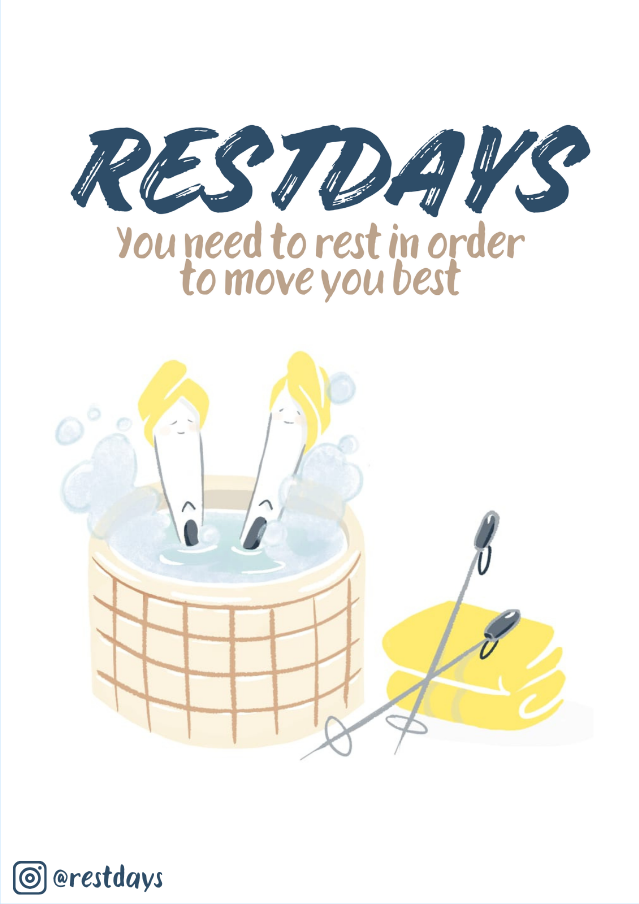
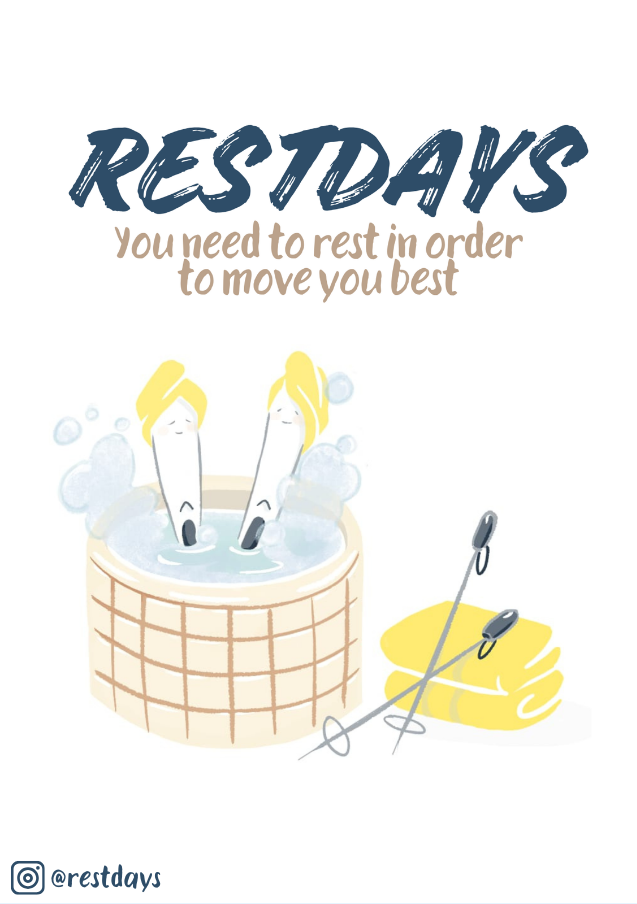
project information
editorial project, adjust project overview and about me page for mobile screen

diff --git a/src/app/art/page.tsx b/src/app/art/page.tsx
@@ -89,25 +89,31 @@ const editorials = [
     {
         src: "/novel mailing.png",
         alt: "editorial",
-        title: "Poster AD Design",
+        title: "Poster AD design",
+        medium: "Adobe Photoshop",
+    },
+    {
+        src: "/Paper namecard.png",
+        alt: "editorial",
+        title: "Namecard design Korean novelist",
         medium: "Adobe Photoshop",
     },
     {
         src: "/restdays1.png",
         alt: "editorial",
-        title: "Visual Activism Poster Design",
+        title: "Visual activism poster design",
         medium: "Figma, Clip Studio Paint",
     },
     {
         src: "/restdays2.png",
         alt: "editorial",
-        title: "Visual Activism Poster Design",
+        title: "Visual activism poster design",
         medium: "Figma, Clip Studio Paint",
     },
     {
         src: "/restdays3.png",
         alt: "editorial",
-        title: "Visual Activism Poster Design",
+        title: "Visual activism poster design",
         medium: "Figma, Clip Studio Paint",
     },
 ];
@@ -115,37 +121,10 @@ export default function ArtPage(){
     return (
         <main>
             {/* Titel section*/}
-            <section className="py-40 z-0">
-
-                <FadeIn amount={0.8} duration={1.0}>
-                    <div className="absolute bottom-70 left-5 md:bottom-30 md:right-50 rotate-180 -z-5">
-                        <SlideUp y={100} delay={0.4} duration={1.0}>
-                        <Image
-                            src="/Frame 1.png"
-                            alt="Flower"
-                            width={110}
-                            height={110}
-                            className="h-12 md:h-28 w-fit pointer-events-none"
-                        />
-                        </SlideUp>
-                    </div>
-
-                    <div className="absolute top-50 right-10 md:top-40 md:left-70 rotate-0 -z-5">
-                        <SlideUp y={100} delay={0.2} duration={1.0}>
-                        <Image
-                            src="/Frame 1.png"
-                            alt="Flower"
-                            width={100}
-                            height={100}
-                            className="h-10 md:h-26 w-fit pointer-events-none"
-                        />
-                        </SlideUp>
-                    </div>
-
-                </FadeIn>
+            <section className="pt-20 z-0">
 
                 <FadeIn>
-                    <h1 className={`${cormorant.className} z-5 text-secondarydark text-center text-6xl md:text-[10vw] mt-5 md:mt-10 leading-none tracking-wide`}>
+                    <h1 className={`${cormorant.className} z-5 text-secondarydark text-center text-6xl md:text-[10vw] leading-none tracking-wide`}>
                         Illustrations
                     </h1>
                 </FadeIn>
@@ -153,7 +132,7 @@ export default function ArtPage(){
 
 
             {/* My illustrations section*/}
-            <section className="py-20 max-w-7xl px-6 md:px-0 mx-auto text-center">
+            <section className="py-10 max-w-7xl px-6 md:px-0 mx-auto text-center">
 
                 <div className="grid grid-cols-1 md:grid-cols-4 md:space-y-10 gap-15 md:gap-8">
 

diff --git a/src/components/blobframe.tsx b/src/components/blobframe.tsx
@@ -3,7 +3,7 @@ import Image from "next/image";
 export default function Blobframe() {
     return (
         <div className="relative md:w-full w-[300px] md:h-[500px] h-[300px] group">
-            <div className="absolute inset-0 animate-blob opacity-70 group-hover:opacity-100
+            <div className="absolute inset-0 animate-blob opacity-70 group-hover:opacity-100 group-active:opacity-100
             transition"/>
 
             <div className="relative w-full h-full animate-blob overflow-hidden">
@@ -11,7 +11,7 @@ export default function Blobframe() {
                     src="/profile.png"
                     alt="lisachoi"
                     fill
-                    className="object-cover transition-opacity duration-300 group-hover:opacity-0"
+                    className="object-cover transition-opacity duration-300 group-hover:opacity-0 group-active:opacity-0 "
                 />
 
                 {/* Hover image */}
@@ -19,7 +19,7 @@ export default function Blobframe() {
                     src="/profile2.png"
                     alt="lisachoi hover"
                     fill
-                    className="object-cover opacity-0 transition-opacity duration-300 group-hover:opacity-100"
+                    className="object-cover opacity-0 transition-opacity duration-300 group-hover:opacity-100 group-active:opacity-100"
                 />
             </div>
         </div>

diff --git a/src/components/CursorHover.tsx b/src/components/CursorHover.tsx
@@ -1,6 +1,6 @@
 "use client";
 
-import { useState, ReactNode, MouseEvent } from "react";
+import { useState, ReactNode, MouseEvent, TouchEvent } from "react";
 
 interface CursorHoverProps {
     children: ReactNode;
@@ -16,12 +16,31 @@ export default function CursorHover({ children, hoverText, className }: CursorHo
         setPosition({ x: e.clientX, y: e.clientY });
     };
 
+    const handleTouchStart = (e: TouchEvent<HTMLDivElement>) => {
+        const touch = e.touches[0];
+        setPosition({ x: touch.clientX, y: touch.clientY });
+        setIsHovering(true);
+    };
+
+    const handleTouchMove = (e: TouchEvent<HTMLDivElement>) => {
+        const touch = e.touches[0];
+        setPosition({ x: touch.clientX, y: touch.clientY });
+    };
+
+    const handleTouchEnd = () => {
+        setIsHovering(false);
+    };
+
     return (
         <div
             className={className}
             onMouseEnter={() => setIsHovering(true)}
             onMouseLeave={() => setIsHovering(false)}
             onMouseMove={handleMouseMove}
+            onTouchStart={handleTouchStart}
+            onTouchMove={handleTouchMove}
+            onTouchEnd={handleTouchEnd}
+            onTouchCancel={handleTouchEnd}
         >
             {children}
 

diff --git a/src/sections/Herosection.tsx b/src/sections/Herosection.tsx
@@ -85,14 +85,14 @@ export default function Herosection({id, image, title, links}: HeroSectionProps)
             </Link>
             */}
 
-            <div className="grid grid-cols-2 px-6 mx-auto">
+            <div className="flex flex-wrap justify-center gap-x-10 px-6 mx-auto">
             {links?.map((link, i) => (
                 <Link
                     key={i}
                     href={link.url}
                     target="_blank"
                     rel="noreferrer"
-                    className="md:hidden group space-x-0 flex flex-row items-center pt-10 w-fit"
+                    className="md:hidden group space-x-2 flex flex-row items-center pt-10 w-fit"
                 >
                     <Image
                         src="/Frame 1.png"

diff --git a/src/app/projects/page.tsx b/src/app/projects/page.tsx
@@ -20,7 +20,7 @@ export default function ProjectsPage(){
                     </h1>
                 </SlideUp>
                 <SlideUp y={60} delay={0} duration={1.0}>
-                <div className=" grid grid-cols-1 sm:grid-cols-2 md:gap-12 gap-10">
+                <div className=" grid grid-cols-1 md:grid-cols-2 md:gap-12 gap-10">
                     {projects.map((project) => (
                         <ProjectCard key={project.slug} project={project}/>
                     ))}

diff --git a/src/components/latestProject.tsx b/src/components/latestProject.tsx
@@ -11,7 +11,7 @@ export default function LatestProject({ project }: { project: Project }){
 
             <div className="grid grid-cols-1 md:grid-cols-2 px-6 md:px-0 items-stretch max-w-7xl mx-auto gap-6 md:gap-8 pb-20">
 
-                <FadeIn amount={0.4}>
+                <FadeIn>
 
                         <Link href={`/projects/${project.slug}`}>
 
